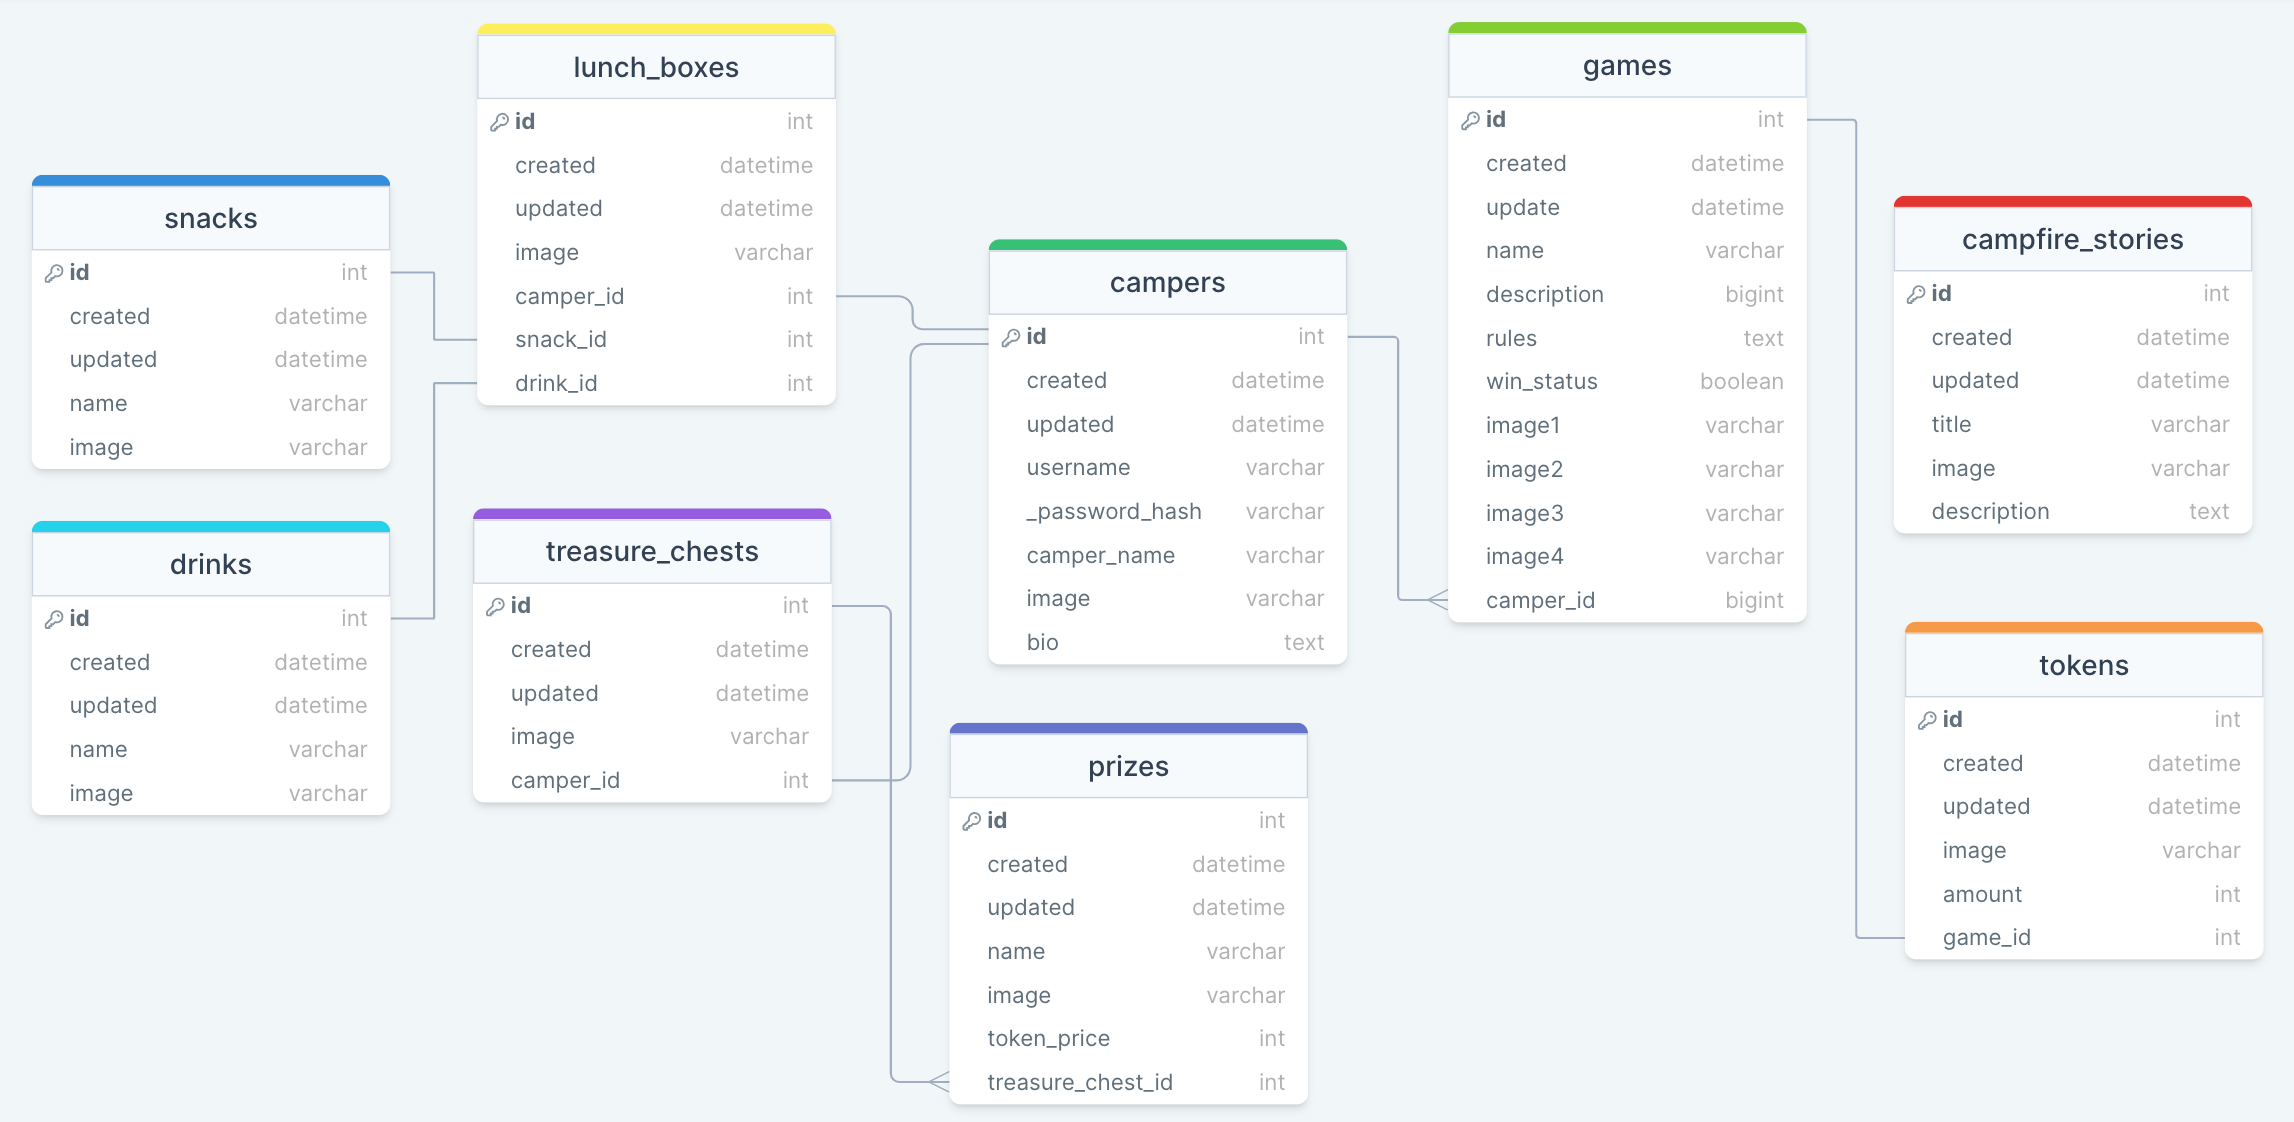
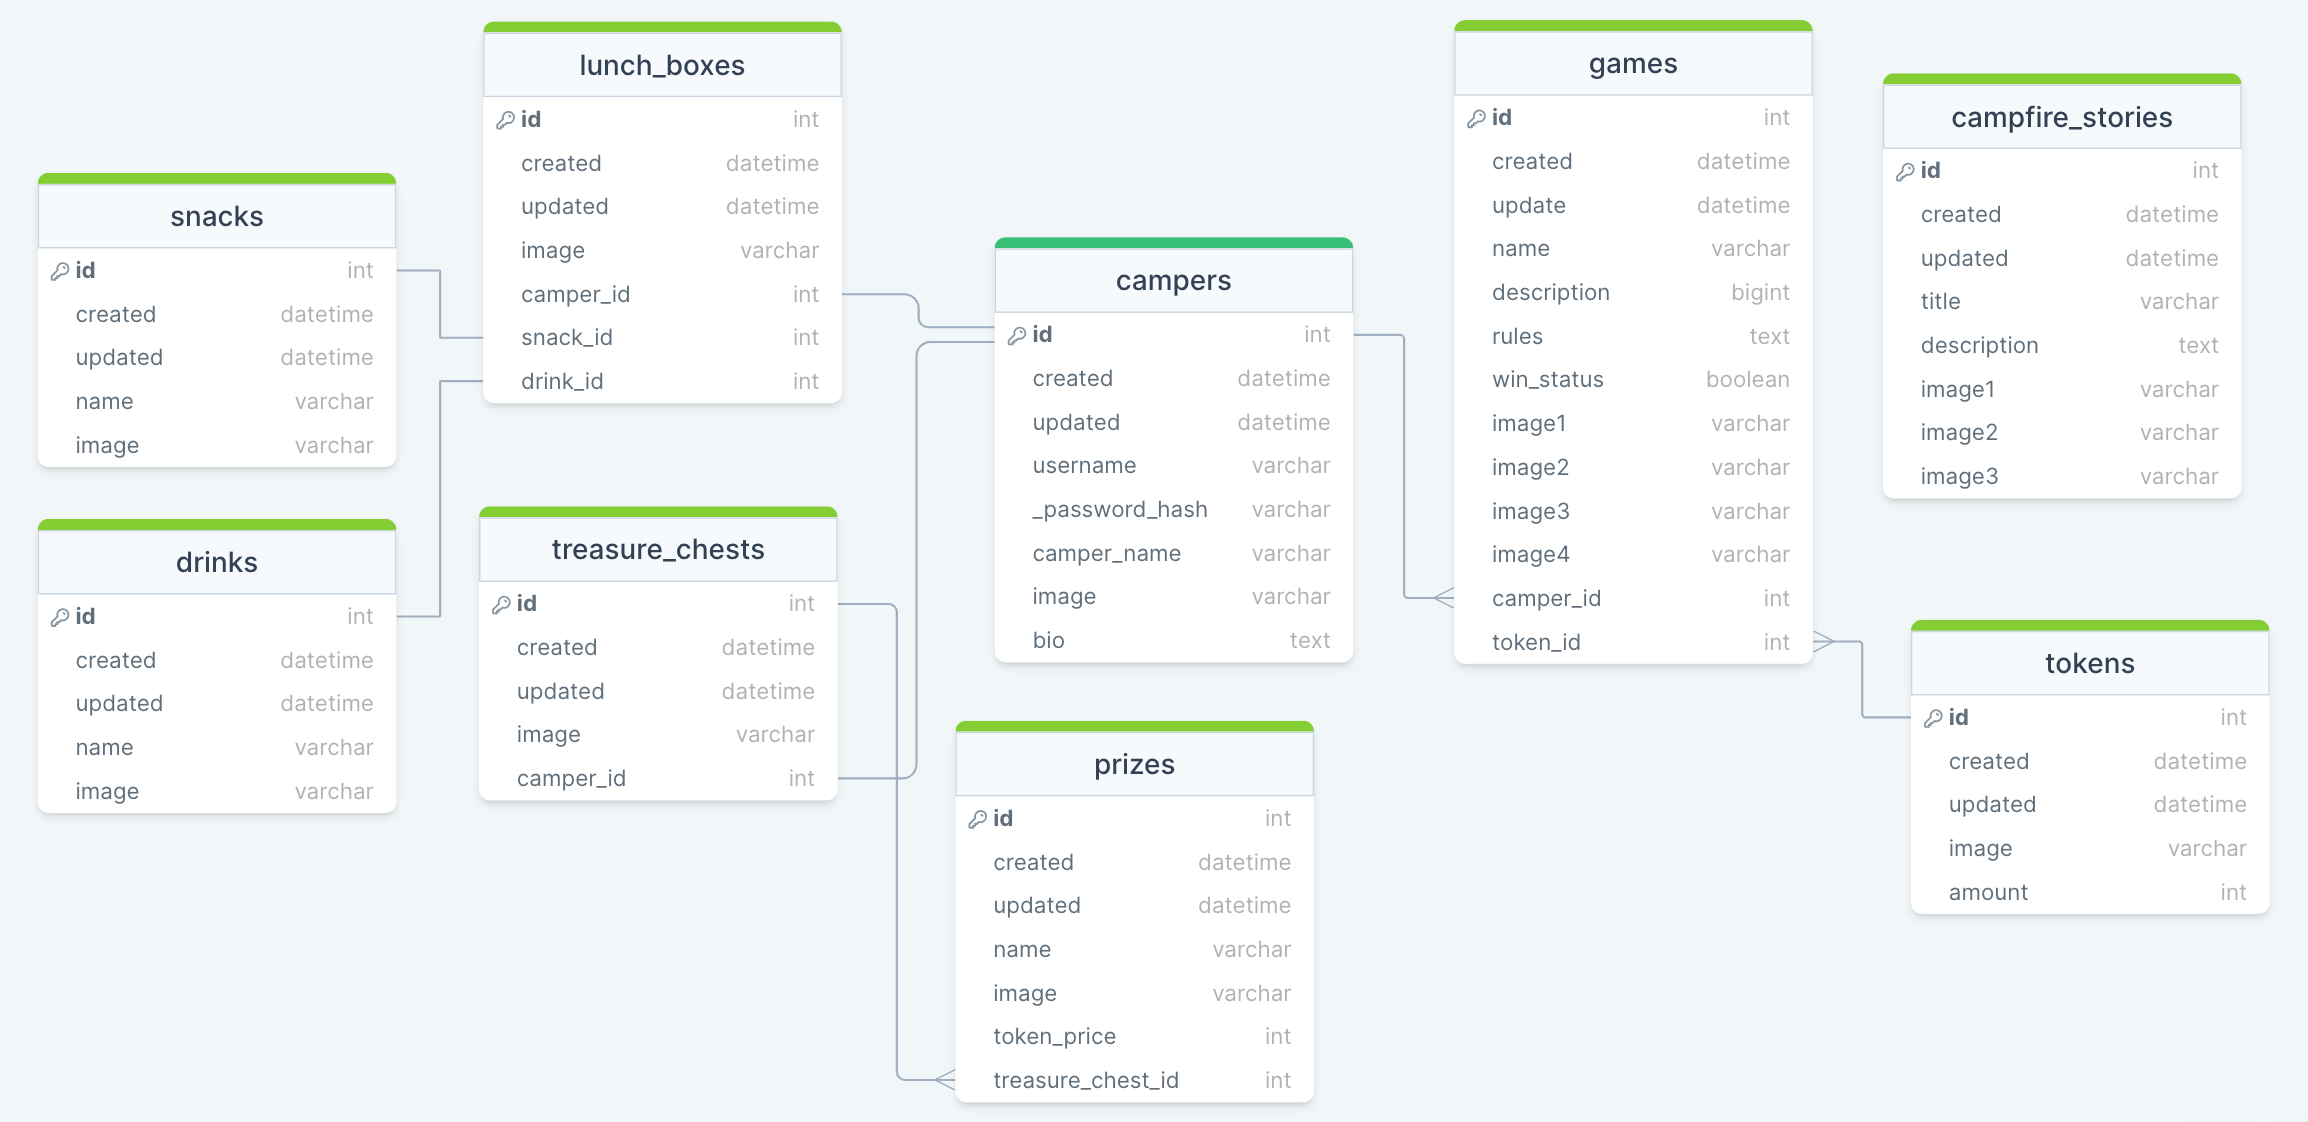
Models done -validations and bycrypt

diff --git a/server/models.py b/server/models.py
@@ -21,9 +21,6 @@ class Camper(db.Model, SerializerMixin):
     treasure_chest = db.relationship(
         "TreasureChest", back_populates="camper", cascade="all, delete-orphan"
     )
-    piggy_bank = db.relationship(
-        "PiggyBank", back_populates="camper", cascade="all, delete-orphan"
-    )
     games = db.relationship(
         "Game", back_populates="camper", cascade="all, delete-orphan"
     )
@@ -33,6 +30,18 @@ class Camper(db.Model, SerializerMixin):
     prizes = association_proxy("treasure_chest", "prizes")
     tokens = association_proxy("games", "tokens")
     # Serialize Rules
+    serialize_rules = (
+        "-created",
+        "-updated",
+        "-lunch_box.camper",
+        "-treasure_chest.camper",
+        "-games.camper",
+    )
+
+    # __repr__
+    def __repr__(self):
+        return f"<Camper {self.username}, camper_name: {self.camper_name}>"
+
     # Validations
 
 
@@ -52,6 +61,18 @@ class Lunchbox(db.Model, SerializerMixin):
     snack = db.relationship("Snack", back_populates="lunch_box")
     drink = db.relationship("Drink", back_populates="lunch_box")
     # Serialize Rules
+    serialize_rules = (
+        "-created",
+        "-updated",
+        "-camper.lunch_box",
+        "-snack.lunch_box",
+        "-drink.lunch_box",
+    )
+
+    # __repr__
+    def __repr__(self):
+        return f"<Lunchbox: {self.id}>"
+
     # Validations
 
 
@@ -70,6 +91,12 @@ class Snack(db.Model, SerializerMixin):
     # Association Proxy
     camper = association_proxy("lunch_box", "camper")
     # Serialize Rules
+    serialize_rules = ("-created", "-updated", "-lunch_box.snack")
+
+    # __repr__
+    def __repr__(self):
+        return f"<Snack {self.name}>"
+
     # Validations
 
 
@@ -88,6 +115,12 @@ class Drink(db.Model, SerializerMixin):
     # Association Proxy
     camper = association_proxy("lunch_box", "camper")
     # Serialize Rules
+    serialize_rules = ("-created", "-updated", "-lunch_box.drink")
+
+    # __repr__
+    def __repr__(self):
+        return f"<Drink {self.name}>"
+
     # Validations
 
 
@@ -104,9 +137,18 @@ class TreasureChest(db.Model, SerializerMixin):
     # Relationships
     camper = db.relationship("Camper", back_populates="treasure_chest")
     prizes = db.relationship("Prize", back_populates="treasure_chest")
-    # Association Proxy
-
     # Serialize Rules
+    serialize_rules = (
+        "-created",
+        "-updated",
+        "-camper.treasure_chest",
+        "-prizes.treasire_chest",
+    )
+
+    # __repr__
+    def __repr__(self):
+        return f"<TreasureChest: {self.id}>"
+
     # Validations
 
 
@@ -122,10 +164,18 @@ class Prize(db.Model, SerializerMixin):
     # Foreign Key(s)
     treasure_chest_id = db.Column(db.Integer, db.ForeignKey("treasure_chests.id"))
     # Relationships
-    treasure_chest = db.relationship("TreasureChest", back_populates="prizes")
+    treasure_chest = db.relationship(
+        "TreasureChest", back_populates="prizes", cascade="all, delete-orphan"
+    )
     # Association Proxy
     campers = association_proxy("treasure_chest", "camper")
     # Serialize Rules
+    serialize_rules = ("-created", "-updated", "-treasure_chest.prizes")
+
+    # __repr__
+    def __repr__(self):
+        return f"<Prize {self.name}: ${self.token_price}>"
+
     # Validations
 
 
@@ -138,21 +188,26 @@ class Game(db.Model, SerializerMixin):
     name = db.Column(db.String, nullable=False)
     description = db.Column(db.String, nullable=False)
     rules = db.Column(db.Text, nullable=False)
-    camper_win = db.Column(db.Boolean)
+    win_status = db.Column(db.Boolean)
     image1 = db.Column(db.String, nullable=False)
-    image2 = db.Column(db.String, nullable=False)
-    image3 = db.Column(db.String, nullable=False)
-    image4 = db.Column(db.String, nullable=False)
+    image2 = db.Column(db.String)
+    image3 = db.Column(db.String)
+    image4 = db.Column(db.String)
     # Foreign Key(s)
     camper_id = db.Column(db.Integer, db.ForeignKey("campers.id"))
+    token_id = db.Column(db.Integer, db.ForeignKey("tokens.id"))
     # Relationship
 
-    camper = db.relationship(
-        "Camper", back_populates="games", cascade="all, delete-orphan"
-    )
+    camper = db.relationship("Camper", back_populates="games")
     tokens = db.relationship("Token", back_populates="game")
-    # Validations
     # Serialize rules
+    serialize_rules = ("-created", "-updated", "-camper.games", "-tokens.game")
+
+    # __repr__
+    def __repr__(self):
+        return f"<Game {self.name}>"
+
+    # Validations
 
 
 class Token(db.Model, SerializerMixin):
@@ -163,8 +218,6 @@ class Token(db.Model, SerializerMixin):
     # Class Specific
     image = db.Column(db.String, nullable=False)
     amount = db.Column(db.Integer, nullable=False, default=0)
-    # Foreign Key(s)
-    game_id = db.Column(db.Integer, db.ForeignKey("games.id"))
     # Relationships
     game = db.relationship(
         "Game", back_populates="tokens", cascade="all, delete-orphan"
@@ -172,16 +225,29 @@ class Token(db.Model, SerializerMixin):
     # Association Proxy
     camper = association_proxy("game", "camper")
     # Serialize Rules
+    serialize_rules = ("-created", "-updated", "-game.tokens")
+
+    # __repr__
+    def __repr__(self):
+        return f"<Token {self.amount}>"
+
     # Validations
 
 
-class CampfireStories(db.Model, SerializerMixin):
+class CampfireStory(db.Model, SerializerMixin):
     __tablename__ = "campfire_stories"
     id = db.Column(db.Integer, primary_key=True)
     created = db.Column(db.DateTime, server_default=db.func.now())
     updated = db.Column(db.DateTime, onupdate=db.func.now())
     # Class Specific
     title = db.Column(db.String)
-    image = db.Column(db.String, nullable=False)
     description = db.Column(db.Text, nullable=False)
+    image1 = db.Column(db.String, nullable=False)
+    image2 = db.Column(db.String)
+    image3 = db.Column(db.String)
     # Serialize Rules
+    serialize_rules = ("-created", "-updated")
+
+    # __repr__
+    def __repr__(self):
+        return f"<CampfireStory {self.title}>"

diff --git a/server/app.py b/server/app.py
@@ -1,0 +1,23 @@
+from flask import make_response, request, session
+from flask_restful import Resource
+from models import (
+    Camper,
+    Lunchbox,
+    Snack,
+    Drink,
+    TreasureChest,
+    Prize,
+    Game,
+    Token,
+    CampfireStories,
+)
+from config import app, db, api
+
+
+@app.route("/")
+def index():
+    return f"<h1>Welcome to Camp Retro</h1>"
+
+
+if __name__ == "__main__":
+    app.run(port=5555, debug=True)
